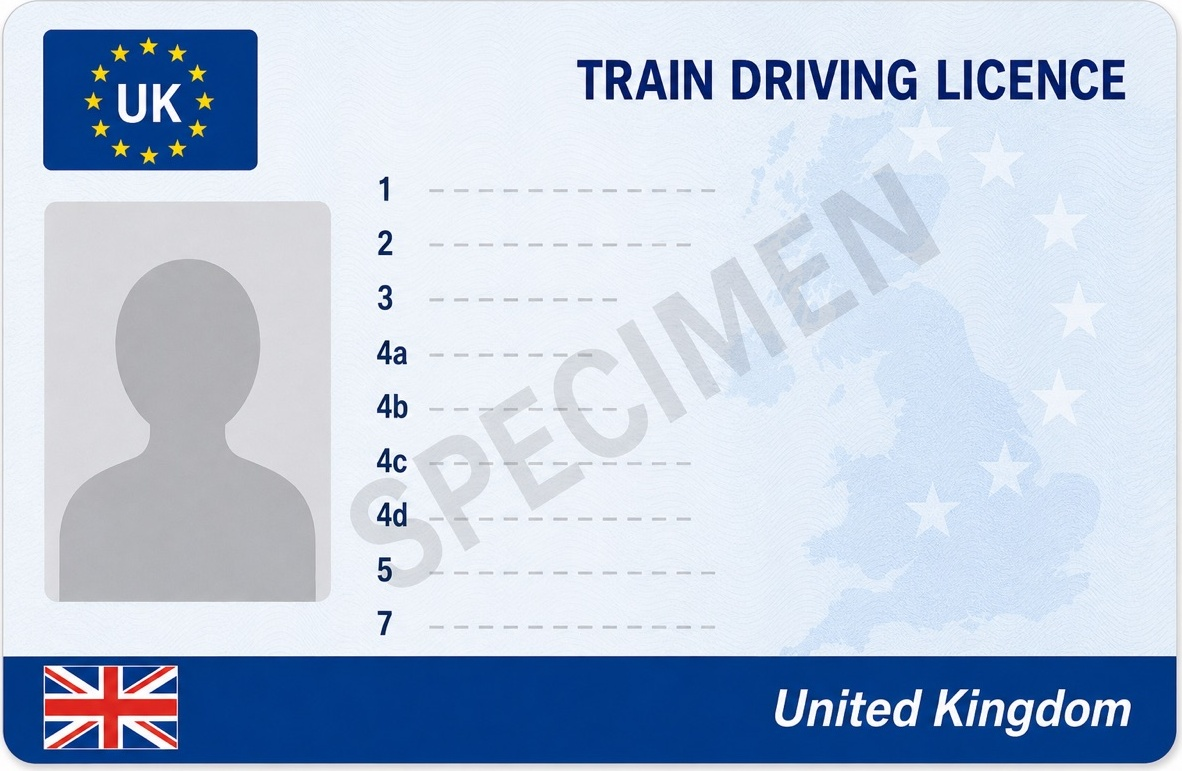
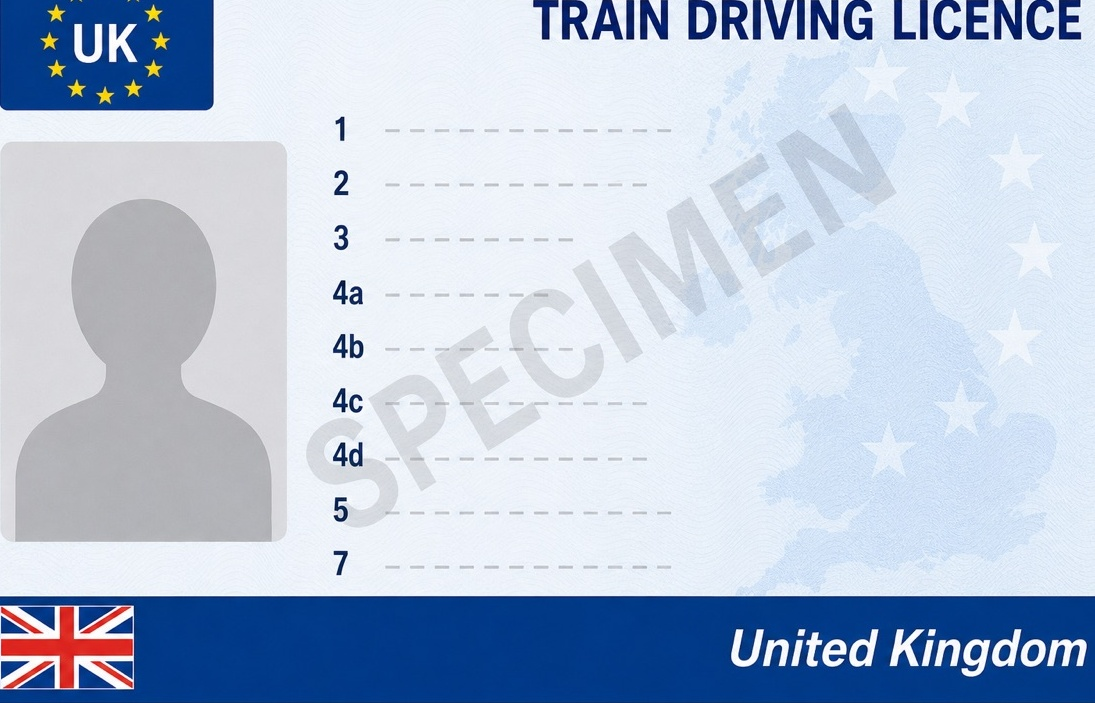
Crop licence specimen to card border in medicals hero.
Remove the light halo on the sides and bottom so the placeholder sits flush in the frame without clipping the footer flag.

diff --git a/features/medicals-licensing.html b/features/medicals-licensing.html
@@ -269,7 +269,7 @@
                 <div class="medicals-licensing-hero-graphic__orb medicals-licensing-hero-graphic__orb--medical"></div>
                 <div class="medicals-licensing-hero-graphic__card-wrap">
                   <div class="medicals-licensing-hero-graphic__licence">
-                    <img class="medicals-licensing-hero-graphic__licence-img" src="../images/product/uk-train-driving-licence-specimen.jpg" alt="" width="1182" height="771" loading="eager" decoding="async" />
+                    <img class="medicals-licensing-hero-graphic__licence-img" src="../images/product/uk-train-driving-licence-specimen.jpg" alt="" width="1095" height="703" loading="eager" decoding="async" />
                   </div>
                   <div class="medicals-licensing-hero-graphic__monitor">
                     <div class="medicals-licensing-hero-graphic__monitor-head">
